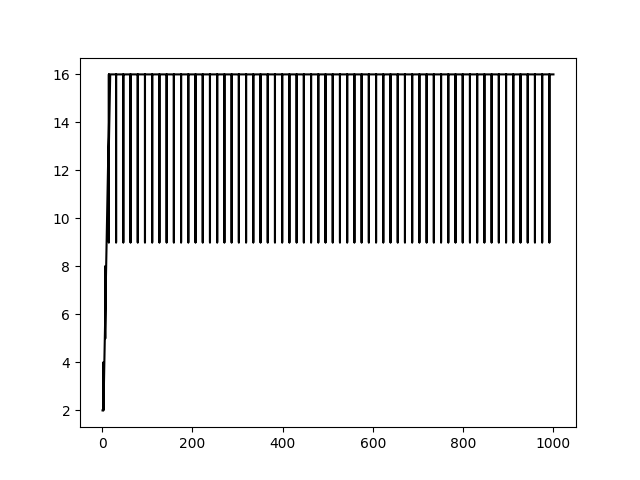
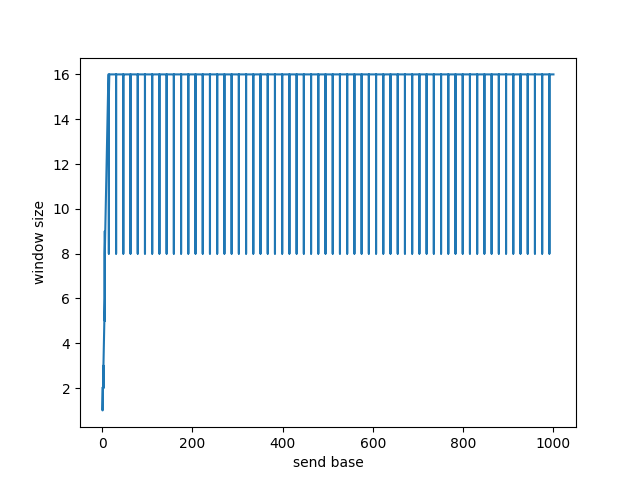
Final

diff --git a/uclient.py b/uclient.py
@@ -12,8 +12,9 @@ serverPort = 12000
 clientPort = 12001
 
 # win = 10      # window size
-win = 1 # window size for slow start
-ssthresh = 16 # if window size exceeds this threshold, slow start ends
+win = 1 # window size for congestion control
+
+ssthresh = 16
 
 no_pkt = 1000 # the total number of packets to send
 send_base = 0 # oldest packet sent
@@ -37,15 +38,21 @@ ack_history = []
 
 temp_flag = True
 
+rtt_min = 0.0
+rtt_measured = 0.0
 
 clientSocket = socket(AF_INET, SOCK_DGRAM)
 clientSocket.bind(('', clientPort))
 clientSocket.setblocking(0)
+start_time = time.time()
 
-# def check_queue_if_duplicate (list):
-#     if len(list) == 0:
-#         return False
-#     if len(list)  0:
+first_flag = True
+sent_bytes = 0
+
+uncongested_throughput = 0
+measured_throughput = 0
+
+max_measured_throughput = 0
         
 
 # thread for receiving and handling acks
@@ -66,6 +73,14 @@ def handling_ack():
     global triple_ack
     global ack_history
     global temp_flag
+    global rtt_min
+    global rtt_measured
+    global first_flag
+    global sent_bytes
+    global uncongested_throughput
+    global measured_throughput
+    global max_measured_throughput
+    global seq
 
     alpha = 0.125
     beta = 0.25
@@ -81,6 +96,14 @@ def handling_ack():
        
         if sent_time[send_base] != 0: 
             pkt_delay = time.time() - sent_time[send_base]
+            rtt_measured = pkt_delay
+            if first_flag:
+                rtt_min = pkt_delay
+                first_flag = False
+                
+        # measured_throughput =  abs(seq - send_base) / (rtt_measured + 0.01)
+        # max_measured_throughput = max(measured_throughput, max_measured_throughput)
+        # uncongested_throughput = win / (rtt_min + 0.01)
      
             
         if pkt_delay > timeout_interval and timeout_flag == 0:    # timeout detected
@@ -89,11 +112,9 @@ def handling_ack():
             timeout_flag = 1
             loss_flag = True
             win = math.ceil(win / 2)
-            # ack_history.append(send_base)
-            # window_size_history.append(win)
-            # print("win size:", win)
-            win = 1
-            # window_size_history.append(win)
+            ack_history.append(send_base)
+            window_size_history.append(win)
+            print("win size:", win)
             
             
             
@@ -101,32 +122,24 @@ def handling_ack():
         if len(ack_queue) == 3 and ack_queue[0] == ack_queue[1] and ack_queue[1] == ack_queue[2]:
             triple_ack = ack_queue[1]
             print("triple detected (send_base, ack):", str(send_base), triple_ack ,flush=True)
-            # print("duplciate ACK:", str(ack_queue[0]), flush=True)
             triple_flag = 1
             loss_flag = True
             win = math.ceil(win / 2)
-            # ack_history.append(send_base)
-            # window_size_history.append(win)
+            ack_history.append(send_base)
+            window_size_history.append(win)
             print("win size:", win)
-            # win = 1
-            # window_size_history.append(win)
             ack_queue = []
 
         try:
             ack, serverAddress = clientSocket.recvfrom(2048)
             ack_n = int(ack.decode())
-            # if win < ssthresh:
-            #     win += 2
-            # else:
-            #     win += 1
+            
             if win < ssthresh:
                 win += 1
             else:
                 if ack_n == send_base + win - 1:
                     win += 1
-            # window_size_history.append(win)
             print(ack_n, flush=True)
-            # ack_history.append(send_base)
             
             """
             여기 ack_n을 ack_queue에 넣어야 됨!
@@ -149,7 +162,7 @@ def handling_ack():
                 estimated_rtt = (1-alpha)*estimated_rtt + alpha*pkt_delay
                 dev_rtt = (1-beta)*dev_rtt + beta*abs(pkt_delay-estimated_rtt)
             timeout_interval = estimated_rtt + 4*dev_rtt
-            #print("timeout interval:", str(timeout_interval), flush=True)
+            # print("timeout interval:", str(timeout_interval), flush=True)
 
             
         except BlockingIOError:
@@ -175,8 +188,6 @@ th_handling_ack.start()
 # while seq < no_pkt:
 while temp_flag:
     while seq < send_base + win: # send packets within window
-        # if random.random() < 1 - loss_rate: # emulate packet loss
-            # clientSocket.sendto(str(seq).encode(), (serverIP, serverPort))  
         if loss_flag == False:
             clientSocket.sendto(str(seq).encode(), (serverIP, serverPort))
         sent_time[seq] = time.time()    
@@ -185,7 +196,6 @@ while temp_flag:
             
         
     if timeout_flag == 1: # retransmission
-        # if triple_flag == False:
         seq = send_base 
         clientSocket.sendto(str(seq).encode(), (serverIP, serverPort))
         sent_time[seq] = time.time()
@@ -196,7 +206,6 @@ while temp_flag:
         loss_flag = False
         
     if triple_flag == 1: # retransmission by triple duplicate ACK
-        
         seq = send_base
         clientSocket.sendto(str(seq).encode(), (serverIP, serverPort))
         ack_queue = []
@@ -211,15 +220,18 @@ print("seq:", seq)
 print("send_base:", send_base) 
 print("window size:", win)
 print("while done")
-# sys.exit(0)
+
 th_handling_ack.join() # terminating thread
 
 print ("done")
 print("re by triple:", how_many_retransmission_by_triple)
 print("re by timeout:", how_many_retransmission_by_timeout)
 print("window size:", win)
+print("Elapsed time:", time.time() - start_time)
 
 clientSocket.close()
 
-plt.plot(np.transpose(ack_history) , np.transpose(window_size_history), 'k')
+plt.plot(ack_history , window_size_history)
+plt.xlabel('send base')
+plt.ylabel('window size')
 plt.savefig('temp.png')

diff --git a/usever.py b/usever.py
@@ -9,12 +9,14 @@ serverPort = 12000
 
 serverSocket = socket(AF_INET, SOCK_DGRAM)
 serverSocket.bind(('', serverPort))
+start_time = time.time()
 
 print('The server is ready to receive')
 
 rcv_base = 0  # next sequence number we wait for
 
 queue_max_size = 20
+loss_rate = 0.9
 
 queue = Queue() # queue that stores acks
 clientAddress = None
@@ -24,12 +26,6 @@ done_flag = False
 pkt_delay = 0
 last_recv_time = 0
 
-"""
-loss rate를 10%로 만드려면,
-1초에 들어오는 packet 개수 in, 나가는 packet 개수 out
-out/in 이 9/10이 되도록 하면? 될 듯
-packet 10개 들어오면 9개 보내기
-"""
 
 receive_count = 0
 
@@ -52,7 +48,6 @@ def recving():
             break
             
         print("try to receive")
-        # receive_count += 1
         message, clientAddress = serverSocket.recvfrom(2048)
         seq_n = int(message.decode()) # extract sequence number
         print(seq_n)
@@ -72,14 +67,10 @@ th_recving = Thread(target = recving, args = ())
 th_recving.start()
 
 while True:
-    # if receive_count >= queue_max_size/2:
-    #     time.sleep(pkt_delay * (queue_max_size + 1) / (queue.qsize() + 1) ) 
-    #     receive_count = 0    
-    
     seq_n = queue.get()
     if seq_n >= rcv_base: # in order delivery
         rcv_base = seq_n + 1 
-    time.sleep(pkt_delay * 0.8)
+    time.sleep(pkt_delay * (loss_rate))
     print("q size, rcv_base, seq_n:", queue.qsize(), rcv_base, seq_n)
     serverSocket.sendto(str(rcv_base-1).encode(), clientAddress) # send cumulative ack
     # if seq_n == 999:
@@ -90,3 +81,4 @@ while True:
 done_flag = True
 serverSocket.close()
 print("done")
+print("Elapsed time:", time.time() - start_time)
